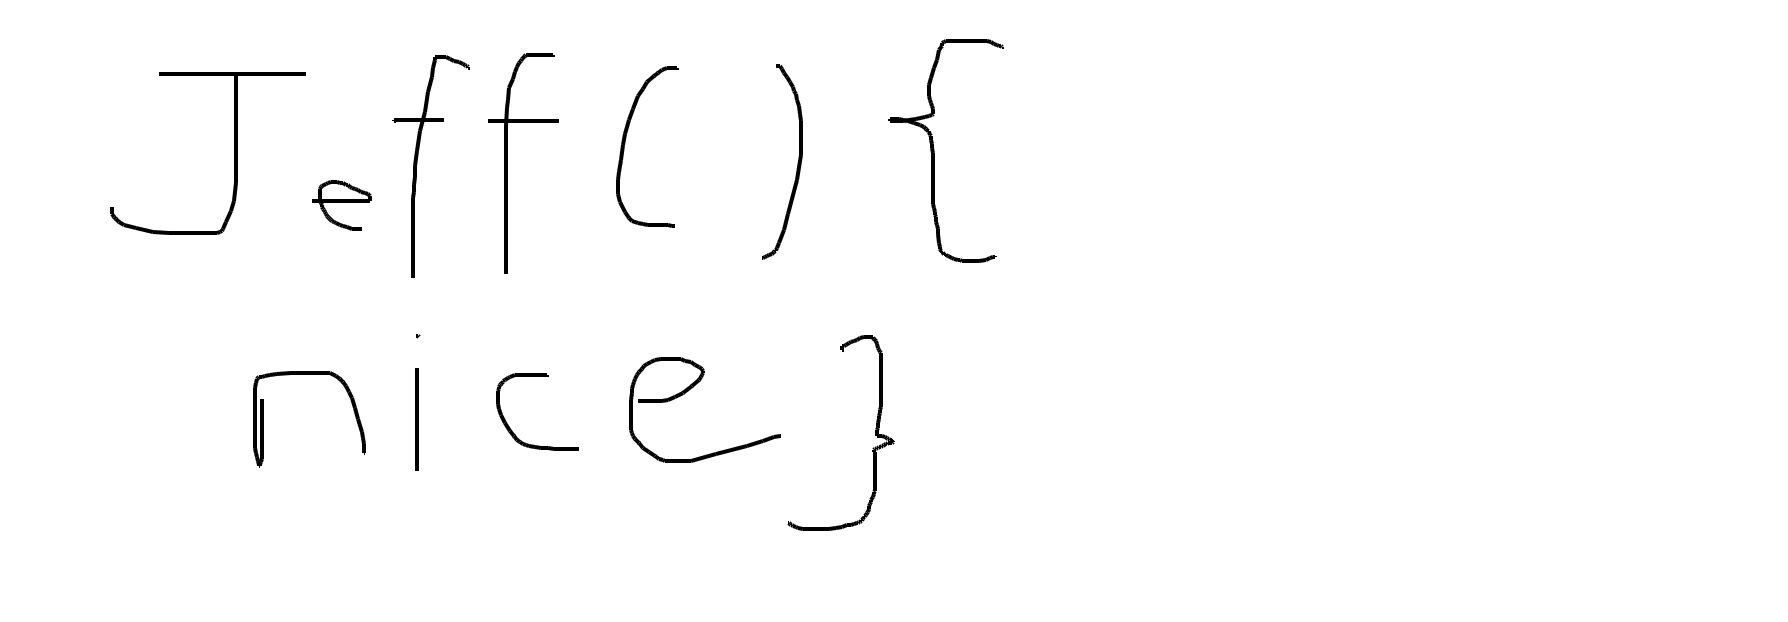
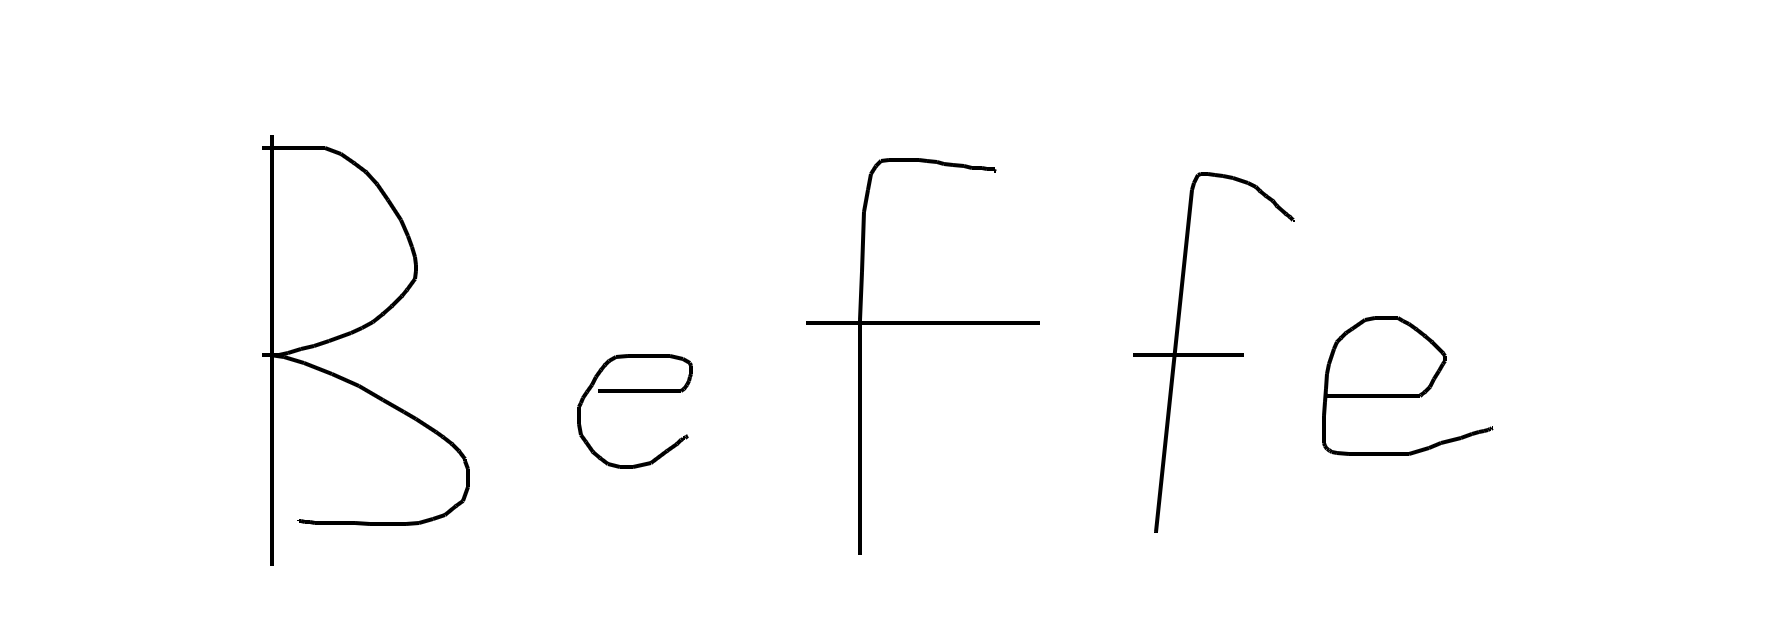
final ver

diff --git a/Templates/about.html b/Templates/about.html
@@ -1,7 +1,7 @@
 <!DOCTYPE html>
 <html>
   <head>
-  	<title>Bootstrap 4 landing page</title>
+  	<title>About</title>
 	 <!-- add bootstrap css file -->
 
     <!-- Latest compiled and minified CSS -->
@@ -168,6 +168,27 @@
         padding: 1em;
     }
 
+    .mid{
+        display:flex;
+        flex-wrap: nowrap;
+    }
+
+    .mid p{
+        margin: 10px;
+        margin-left: 40px;
+        font-family: Georgia, 'Times New Roman', Times, serif;
+        font-size: 18pt;
+        text-indent: 2em;
+    }
+    #temp{
+        display: flex;
+        flex-direction: column;
+    }
+
+    h1{
+        margin:10vh;
+    }
+
   </style> 
 
 
@@ -190,7 +211,7 @@
          <button class="navbar-toggler" type="button" data-toggle="collapse" data-target="#navbarSupportedContent" aria-controls="navbarSupportedContent" aria-expanded="false" aria-label="Toggle navigation">
            <span class="navbar-toggler-icon"></span>
          </button>
-         <img src="Logo.png" class="img-fluid" width="70" height="15" &nbsp>
+         <img src="{{ url_for('static', filename='Logo.PNG') }}" class="img-fluid" width="50" height="15" &nbsp>
      
           <a href="https://github.com/jeffzhkw/HackNYU">
            <img src="https://pbs.twimg.com/profile_images/1157035760085684224/iuxTnT5g_400x400.jpg" class="img-fluid" width="50" height="15">
@@ -211,85 +232,41 @@
 
   </body>
   <h1 class="text-center">About Us</h1>
-		<div class="row">
-			<div class="col-md-10 col-lg-7 col-sm-12">
-
-    <p>
-      MeCode is a practical tool in the Computer Science learning environment.
-      As touch-screen devices, such as Ipad and Surface Pro,
-      become common tools in learning environment, more and more people
-      are replacing notebooks with these devices. However, these devices are not properly equipt
-      with software that makes writing notes for code easy until now. MeCode allows for the user to 
-      take notes and directly transfer these notes to functional code. Using computer vison machine learning API's, 
-      MeCode is able to understand the users handwriting while the user is taking notes. This now allows for 
-      the personal feel of writing notes, with the ability to test and control your outputs at the same time. 
-      <br></br>
-      This is not only meant for students, but also can be used to help professors lead courses.
-      Professors can now continue guiding courses with the personal touch other their hand, while still being 
-      able to connect with their code. Not to mention, this also eliminates messy handwriting that students 
-      cannot read. 
-      <br> </br> 
-      So we inventred MeCode, a new way to "write" code.  
-      <br> 
-
+		<div>
+			<div class="">
+    <div class = "mid">
+        <div id = "temp">
+        <p>
+            LetMeCode is a practical tool in the Computer Science learning environment.
+            As touch-screen devices, such as Ipad and Surface Pro,
+            become common tools in learning environment, more and more people
+            are replacing notebooks with these devices. However, these devices are not properly equipt
+            with software that makes writing notes for code easy until now. MeCode allows for the user to 
+            take notes and directly transfer these notes to functional code. Using computer vison machine learning API's, 
+            MeCode is able to understand the users handwriting while the user is taking notes. This now allows for 
+            the personal feel of writing notes, with the ability to test and control your outputs at the same time. </p>
+            <p>
+            This is not only meant for students, but also can be used to help professors lead courses.
+            Professors can now continue guiding courses with the personal touch other their hand, while still being 
+            able to connect with their code. Not to mention, this also eliminates messy handwriting that students 
+            cannot read. </p>
+            <p>
+            So we inventred MeCode, a new way to "write" code.  
+             
+            </p>
+        </div>
+            <img src="{{ url_for('static', filename='Figure_1.PNG') }}" width = 800px;></img>
+    </div>
+    
             </div>
         </div>
     </h1>
+    
 
     
 
     </body>
 
-    <div class="Blog" id="Blog">
-	<div class="container">
-	<h1 class="text-center">Team</h1>
-		<div class="row">
-			<div class="col-md-4 col-lg-4 col-sm-12">
-				<div class="card">					
-					<div class="card-body">
-					<h4 class="card-title">Eliot Brown</h4>
-						<p class="card-text">
-							Major: Computer Engneering, Sophomore in NYU Tandon <br></br>
-                            Minor: Business Studies
-						</p>
-					</div>
-				</div>
-			</div>
-			<div class="col-md-4 col-lg-4 col-sm-12">
-				<div class="card">					
-					<div class="card-body">
-					   <h4 class="card-title">Yuchen Liu</h4>
-						<p class="card-text">
-                            Major: Computer Science, Sophomore in NYU Tandon <br></br>
-                            Minor: Mathematics 
-						</p>
-					</div>
-				</div>
-			</div>
-			<div class="col-md-4 col-lg-4 col-sm-12">
-				<div class="card">
-					<div class="card-body">
-					<h4 class="card-title">Chris Xu</h4>
-						<p class="card-text">
-							Major: Computer Science, Sophomore in NYU Tandon  <br></br>
-                            Minor: Game Engineering 
-						</p>
-					</div>
-				</div>
-			</div>
-            <div class="col-md-4 col-lg-4 col-sm-12" id="4">
-				<div class="card">					
-					<div class="card-body">
-					<h4 class="card-title">Kewei Zhang</h4>
-						<p class="card-text">
-							Major: Computer Science, Sophomore in NYU Tandon <br></br>
-                            Minor: Integrated Digital Media
-						</p>
-					</div>
-				</div>
-			</div>
-		</div>
-	</div>
-</div>
+
 
 </html>

diff --git a/Templates/contact.html b/Templates/contact.html
@@ -1,7 +1,7 @@
 <!DOCTYPE html>
 <html>
   <head>
-  	<title>Bootstrap 4 landing page</title>
+  	<title>Contact</title>
 	 <!-- add bootstrap css file -->
 
     <!-- Latest compiled and minified CSS -->
@@ -154,7 +154,7 @@
          <button class="navbar-toggler" type="button" data-toggle="collapse" data-target="#navbarSupportedContent" aria-controls="navbarSupportedContent" aria-expanded="false" aria-label="Toggle navigation">
            <span class="navbar-toggler-icon"></span>
          </button>
-         <img src="Logo.png" class="img-fluid" width="70" height="15" &nbsp>
+         <img src="{{ url_for('static', filename='Logo.PNG') }}" class="img-fluid" width="50" height="15" &nbsp>
      
           <a href="https://github.com/jeffzhkw/HackNYU">
            <img src="https://pbs.twimg.com/profile_images/1157035760085684224/iuxTnT5g_400x400.jpg" class="img-fluid" width="50" height="15">
@@ -172,15 +172,60 @@
    
    
        </div>
+
+       <div class="Blog" id="Blog">
+        <div class="container">
+        <h1 class="text-center">Team</h1>
+            <div class="row">
+                <div class="col-md-4 col-lg-4 col-sm-12">
+                    <div class="card">					
+                        <div class="card-body">
+                        <h4 class="card-title">Eliot Brown</h4>
+                            <p class="card-text">
+                                Major: Computer Engneering, Sophomore in NYU Tandon <br></br>
+                                Minor: Business Studies
+                            </p>
+                        </div>
+                    </div>
+                </div>
+                <div class="col-md-4 col-lg-4 col-sm-12">
+                    <div class="card">					
+                        <div class="card-body">
+                           <h4 class="card-title">Yuchen Liu</h4>
+                            <p class="card-text">
+                                Major: Computer Science, Sophomore in NYU Tandon <br></br>
+                                Minor: Mathematics 
+                            </p>
+                        </div>
+                    </div>
+                </div>
+                <div class="col-md-4 col-lg-4 col-sm-12">
+                    <div class="card">
+                        <div class="card-body">
+                        <h4 class="card-title">Chris Xu</h4>
+                            <p class="card-text">
+                                Major: Computer Science, Sophomore in NYU Tandon  <br></br>
+                                Minor: Game Engineering 
+                            </p>
+                        </div>
+                    </div>
+                </div>
+                <div class="col-md-4 col-lg-4 col-sm-12" id="4">
+                    <div class="card">					
+                        <div class="card-body">
+                        <h4 class="card-title">Kewei Zhang</h4>
+                            <p class="card-text">
+                                Major: Computer Science, Sophomore in NYU Tandon <br></br>
+                                Minor: Integrated Digital Media
+                            </p>
+                        </div>
+                    </div>
+                </div>
+            </div>
+        </div>
+    </div>
   </body>
   
-    <p> <img src="https://pbs.twimg.com/profile_images/1157035760085684224/iuxTnT5g_400x400.jpg" alt="Github" align="middle"> 
-    <br></br> 
-    <&#8592 align="middle";
-    align="right";
-
-    
-    </p>
 
 
 </html>

diff --git a/Templates/index.html b/Templates/index.html
@@ -1,7 +1,7 @@
 <!DOCTYPE html>
 <html>
   <head>
-    <title>Bootstrap 4 landing page</title>
+    <title>Let Me Code</title>
     <!-- add bootstrap css file -->
 
     <!-- Latest compiled and minified CSS -->
@@ -306,7 +306,7 @@
           
             
           
-          <img src="{{ url_for('static', filename='Logo.PNG') }}" class="img-fluid" width="70" height="15" &nbsp />
+          <img src="{{ url_for('static', filename='Logo.PNG') }}" class="img-fluid" width="50" height="15" &nbsp />
 
           <a href="https://github.com/jeffzhkw/HackNYU">
             <img

diff --git a/app.py b/app.py
@@ -63,7 +63,7 @@ def detect_document_with_newLine():
     from google.cloud.vision import types
     import pandas as pd
 
-    os.environ['GOOGLE_APPLICATION_CREDENTIALS']=r'Hand write code-1f0460a79a72.json'
+    os.environ['GOOGLE_APPLICATION_CREDENTIALS']=r'/Users/yuchen/Downloads/key.json'
     client = vision.ImageAnnotatorClient()
 
     file_name = 'imageToSave.png'

diff --git a/output.cpp b/output.cpp
@@ -1,2 +1,1 @@
-Jeff() {
-- nice }
+Beffe
